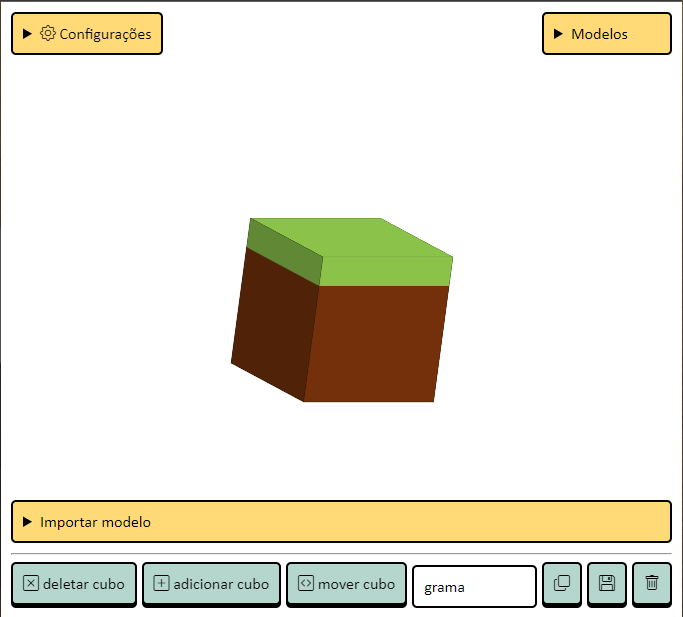
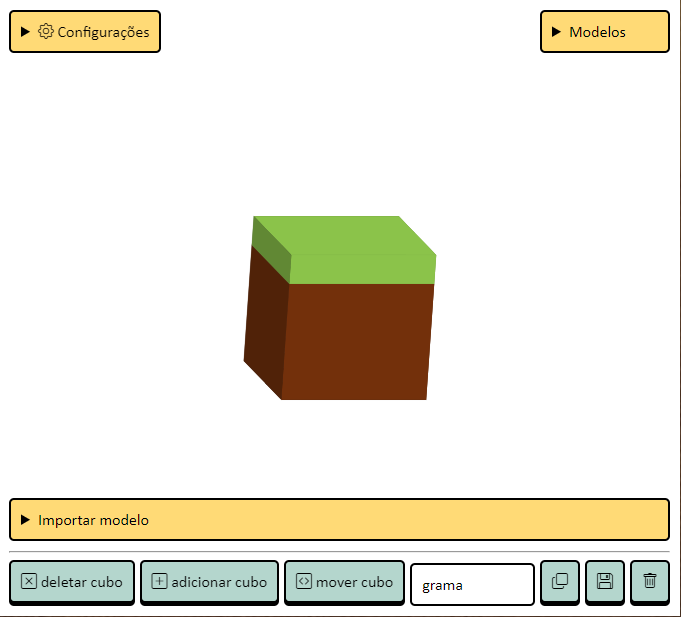
color preview border update

Changed region(s): [[0.0, 0.8006, 0.9868, 1.0], [0.0, 0.0, 0.9868, 0.0924], [0.3392, 0.3387, 0.6784, 0.6775]]

diff --git a/css/cube.css b/css/cube.css
@@ -30,7 +30,7 @@
   width: 100%;
   height: 100%;
   color: #fff;
-  border: 1px solid var(--border);
+  border: 1px solid var(--face-border);
   box-sizing: border-box;
   background-color: rgba(255, 255, 255, 0);
   color: rgba(0, 0, 0, 0);
@@ -38,7 +38,7 @@
 }
 .display .preview.click {
   background-color: rgba(0, 0, 0, 0.1333333333);
-  color: var(--color);
+  color: var(--color-preview);
 }
 .display .front {
   transform: translateZ(calc(var(--width-display) / 2));

diff --git a/css/cube.scss b/css/cube.scss
@@ -30,7 +30,7 @@
         width: 100%;
         height: 100%;
         color: #fff;
-        border: 1px solid var(--border);
+        border: 1px solid var(--face-border);
         box-sizing: border-box;
         background-color: #fff0;
         color: #0000;
@@ -38,7 +38,7 @@
 
         &.click{
             background-color: #0002;
-            color: var(--color);
+            color: var(--color-preview);
         }
     }
     .front {

diff --git a/css/style.scss b/css/style.scss
@@ -41,6 +41,8 @@ body {
     --yellow: #FFDA76;
     --button-input: #B4D6CD;
     --border: #000;
+    --face-border: #0003;
+    --color-preview: #0008;
     --scroll: #234;
     --bg: #fff;
     overflow: hidden;
@@ -184,7 +186,6 @@ label{
     }
 }
 
-
 input{
     width: 100%;
 }
@@ -195,7 +196,6 @@ button, label{
     box-shadow: 0px 3px 0 var(--border);
     translate: 0 -3px;
 }
-
 
 summary{
     cursor: pointer;

diff --git a/css/style.css b/css/style.css
@@ -46,6 +46,8 @@ body {
   --yellow: #FFDA76;
   --button-input: #B4D6CD;
   --border: #000;
+  --face-border: #0003;
+  --color-preview: #0008;
   --scroll: #234;
   --bg: #fff;
   overflow: hidden;
